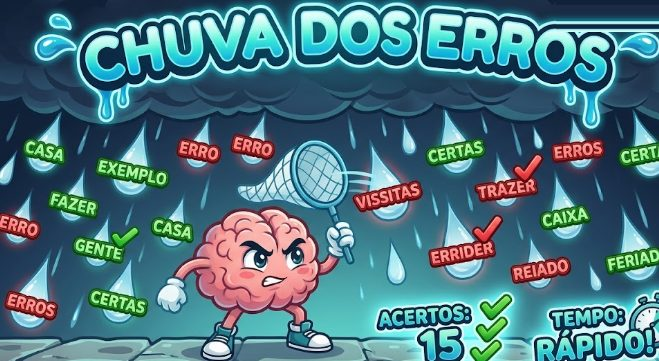
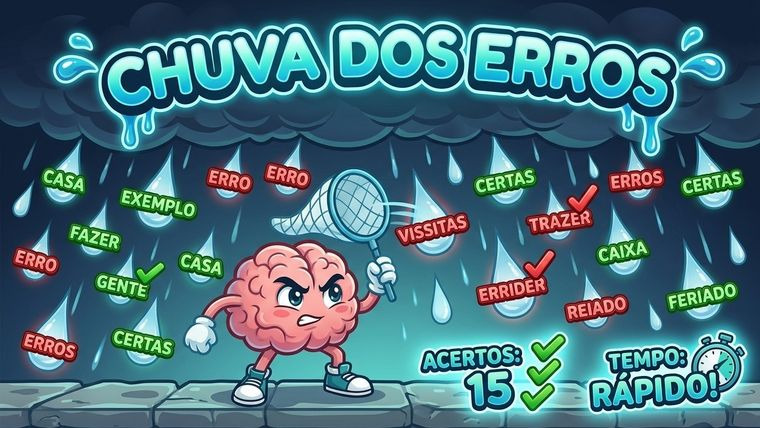
Capa da Chuva de Matematica e capa nova da Chuva de Erros
Artes em alta resolucao, sem a faixa de baixo, reduzidas para a web; no cartao e na tela de instrucoes de cada jogo. Versao do jogo v42.

diff --git a/index.html b/index.html
@@ -16,7 +16,7 @@
   <link rel="preconnect" href="https://fonts.googleapis.com">
   <link rel="preconnect" href="https://fonts.gstatic.com" crossorigin>
   <link href="https://fonts.googleapis.com/css2?family=Fredoka:wght@500;600;700&family=Nunito:wght@600;700;800&display=swap" rel="stylesheet">
-  <link rel="stylesheet" href="style.css?v=41">
+  <link rel="stylesheet" href="style.css?v=42">
 </head>
 <body>
   <!-- moldura de lápis, livros e estrelas -->
@@ -94,7 +94,7 @@
     <!-- Chuva de Erros: escolha do que pegar e das palavras -->
     <section class="tela" id="tela-chuva-menu">
       <h2 class="subtitulo">🌧 Chuva de Erros</h2>
-      <img class="capa-jogo larga" src="assets/capa-chuva-erros.jpg" alt="Chuva dos Erros: o cérebro caçando palavras" width="659" height="361">
+      <img class="capa-jogo larga" src="assets/capa-chuva-erros.jpg" alt="Chuva dos Erros: o cérebro caçando palavras" width="760" height="428">
       <div class="cena cena-regra">
         <div class="davi-area" id="davi-chuva"></div>
         <div class="balao balao-esq">
@@ -131,6 +131,7 @@
     <!-- Chuva de Matemática: escolha das operações -->
     <section class="tela" id="tela-mat-menu">
       <h2 class="subtitulo">🔢 Chuva de Matemática</h2>
+      <img class="capa-jogo" src="assets/capa-chuva-matematica.jpg" alt="Chuva de Matemática: o cérebro pegando as contas" width="600" height="691">
       <div class="cena cena-regra">
         <div class="davi-area" id="davi-mat"></div>
         <div class="balao balao-esq">
@@ -378,12 +379,12 @@
           <span class="jogo-card-texto">Missões com os segredos da escrita</span>
         </button>
         <button class="jogo-card com-capa" id="btn-chuva" type="button" data-tema="portugues" style="--c:#e53935">
-          <img class="jogo-card-capa larga" src="assets/capa-chuva-erros.jpg" alt="" width="659" height="361">
+          <img class="jogo-card-capa larga" src="assets/capa-chuva-erros.jpg" alt="" width="760" height="428">
           <span class="jogo-card-nome">Chuva de Erros</span>
           <span class="jogo-card-texto">Pegue as palavras antes que sumam!</span>
         </button>
-        <button class="jogo-card" id="btn-mat" type="button" data-tema="matematica" style="--c:#0b3d91">
-          <span class="jogo-card-icone">🔢</span>
+        <button class="jogo-card com-capa" id="btn-mat" type="button" data-tema="matematica" style="--c:#0b3d91">
+          <img class="jogo-card-capa" src="assets/capa-chuva-matematica.jpg" alt="" width="600" height="691">
           <span class="jogo-card-nome">Chuva de Matemática</span>
           <span class="jogo-card-texto">Responda a conta antes que ela caia!</span>
         </button>
@@ -497,9 +498,9 @@
   </footer>
 
   <script src="vendor/jspdf.umd.min.js"></script>
-  <script src="plenix.js?v=41"></script>
-  <script src="dados.js?v=41"></script>
-  <script src="jogo.js?v=41"></script>
+  <script src="plenix.js?v=42"></script>
+  <script src="dados.js?v=42"></script>
+  <script src="jogo.js?v=42"></script>
   <script>
     // Instala o service worker (funcionar offline / virar app)
     if ('serviceWorker' in navigator) {

diff --git a/service-worker.js b/service-worker.js
@@ -1,6 +1,6 @@
 // Guarda os arquivos do jogo para funcionar offline.
 // Ao mudar qualquer arquivo do jogo, aumente a VERSAO para os aparelhos baixarem a nova.
-const VERSAO = 'ortografia-pleno-v41';
+const VERSAO = 'ortografia-pleno-v42';
 
 const FIGURAS = ['c-cedilha', 'r-rr', 'm-n', 'g-j', 'x-ch', 'acentos']
   .flatMap((id) => Array.from({ length: 10 }, (_, i) => `./assets/figuras/${id}-${i}.jpg`));
@@ -8,10 +8,10 @@ const FIGURAS = ['c-cedilha', 'r-rr', 'm-n', 'g-j', 'x-ch', 'acentos']
 const ARQUIVOS = [
   './',
   './index.html',
-  './style.css?v=41',
-  './jogo.js?v=41',
-  './dados.js?v=41',
-  './plenix.js?v=41',
+  './style.css?v=42',
+  './jogo.js?v=42',
+  './dados.js?v=42',
+  './plenix.js?v=42',
   './assets/plenix/plenix_spritesheet_1x.png',
   './assets/tiro/canhao-cano.png',
   './assets/tiro/canhao-carreta.png',
@@ -21,6 +21,7 @@ const ARQUIVOS = [
   './assets/tiro/municao.png',
   './assets/tiro/capa-tiro-certo.jpg',
   './assets/capa-chuva-erros.jpg',
+  './assets/capa-chuva-matematica.jpg',
   './assets/balanca/base.png',
   './assets/balanca/travessao.png',
   './assets/balanca/prato.png',
